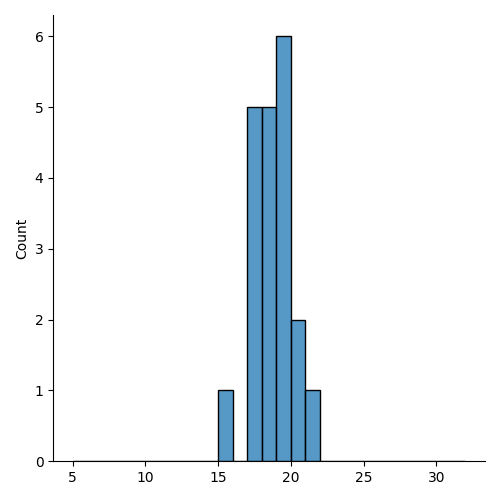
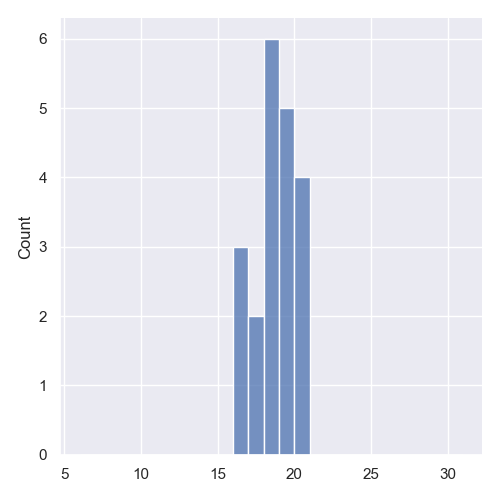
update results

diff --git a/assignment4/part4.py b/assignment4/part4.py
@@ -207,6 +207,7 @@ def run_experiment(
         # add few more bins on sides
         max_iter = max_iter + max_iter // 10
         min_iter = max(0, min_iter - 10)
+        sns.set(rc={'figure.figsize': (12, 8)})
         sns.displot(num_iterations_list, bins=list(range(min_iter, max_iter+10))).figure.savefig("output.png")
 
     return found_list.count(True), num_iter_mean, num_iter_std
@@ -296,8 +297,8 @@ if __name__ == "__main__":
         description='Runs genetic algorithm for string matching',
     )
     # algorithm parameters (make them all tunable, but with default values)
-    parser.add_argument('-m', '--mutation_prob', default=0)
-    parser.add_argument('-k', '--k_tournament', default=5)
+    parser.add_argument('-m', '--mutation_prob', default=0.01)
+    parser.add_argument('-k', '--k_tournament', default=2)
     parser.add_argument('-n', '--n_population', default=1000)
     parser.add_argument('-l', '--length_target', default=15)
     parser.add_argument('-t', '--target', default="abcdefghijklmno")
@@ -319,7 +320,7 @@ if __name__ == "__main__":
     else:
         target = generate_individual(args.allowed_chars, args.target_len)
 
-    """
+    #"""
     run_experiment(
         args.runs_number,
         alphabet,
@@ -330,8 +331,9 @@ if __name__ == "__main__":
         args.g_max,
         debug=True,
     )
-    """
+    #"""
 
+    """
     # update step schedule - start with tiny updates, make larger when hitting certain thresholds
     step_update_scheme = [
         (0, 0.0001),
@@ -347,7 +349,8 @@ if __name__ == "__main__":
         args.n_population,
         args.k_tournament,
         args.g_max,
-        max_m=0.5,
+        max_m=0.4,
         update_scheme=step_update_scheme,
     )
+    """
 
